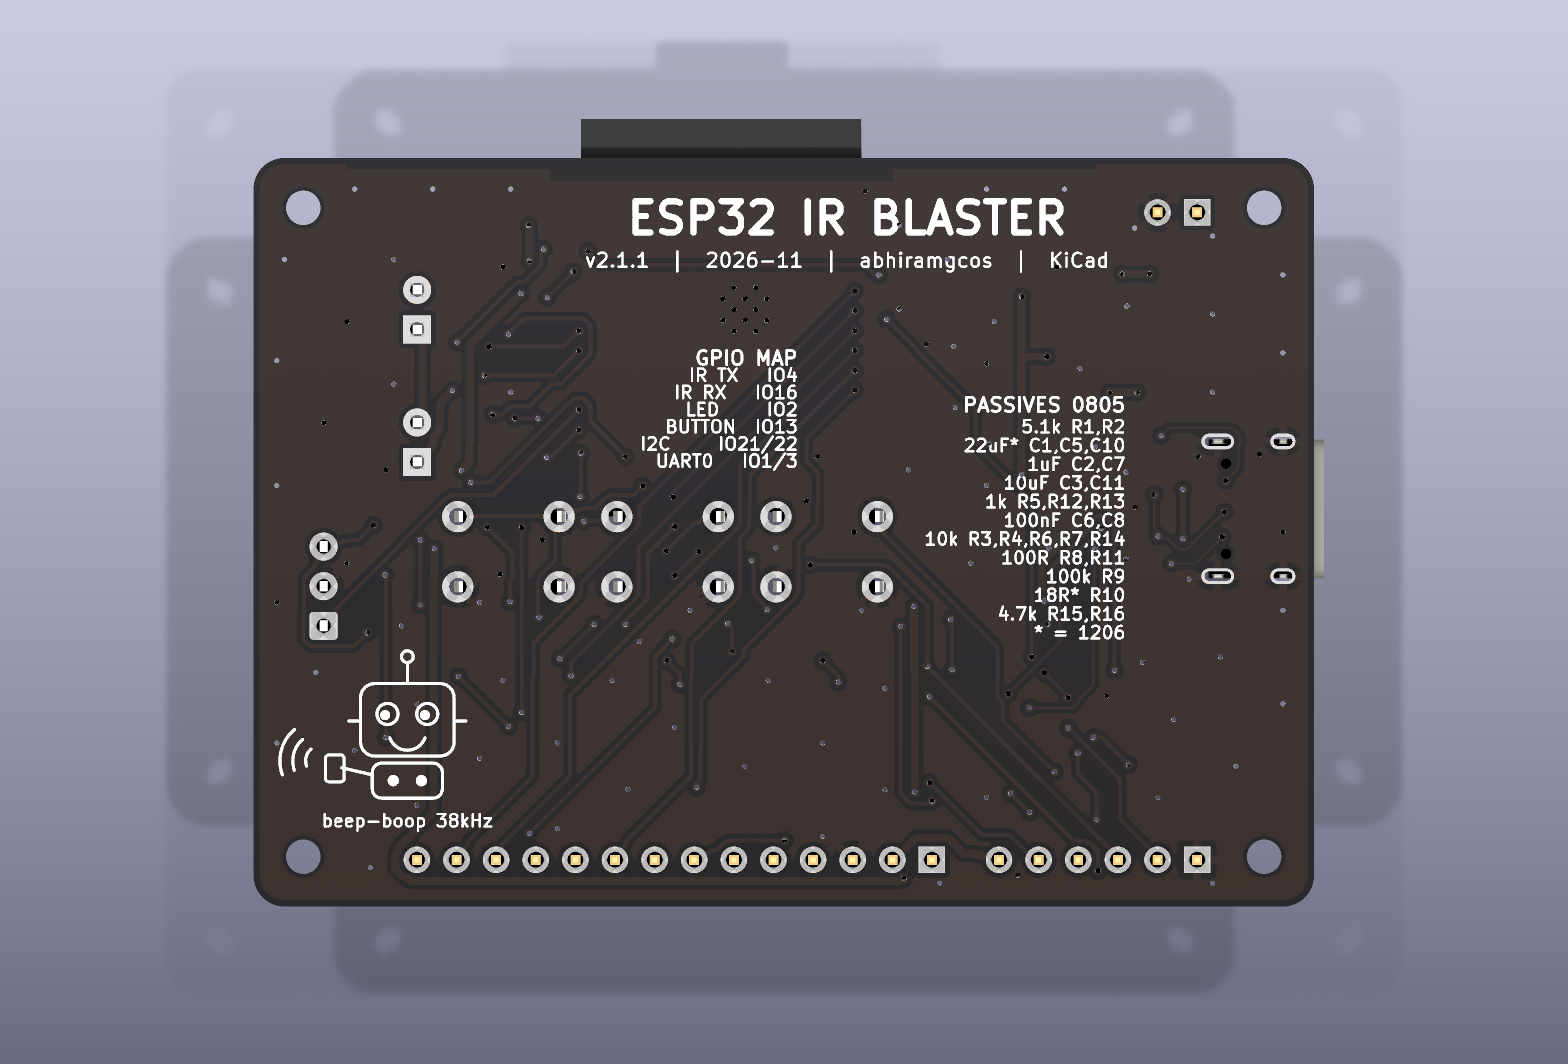
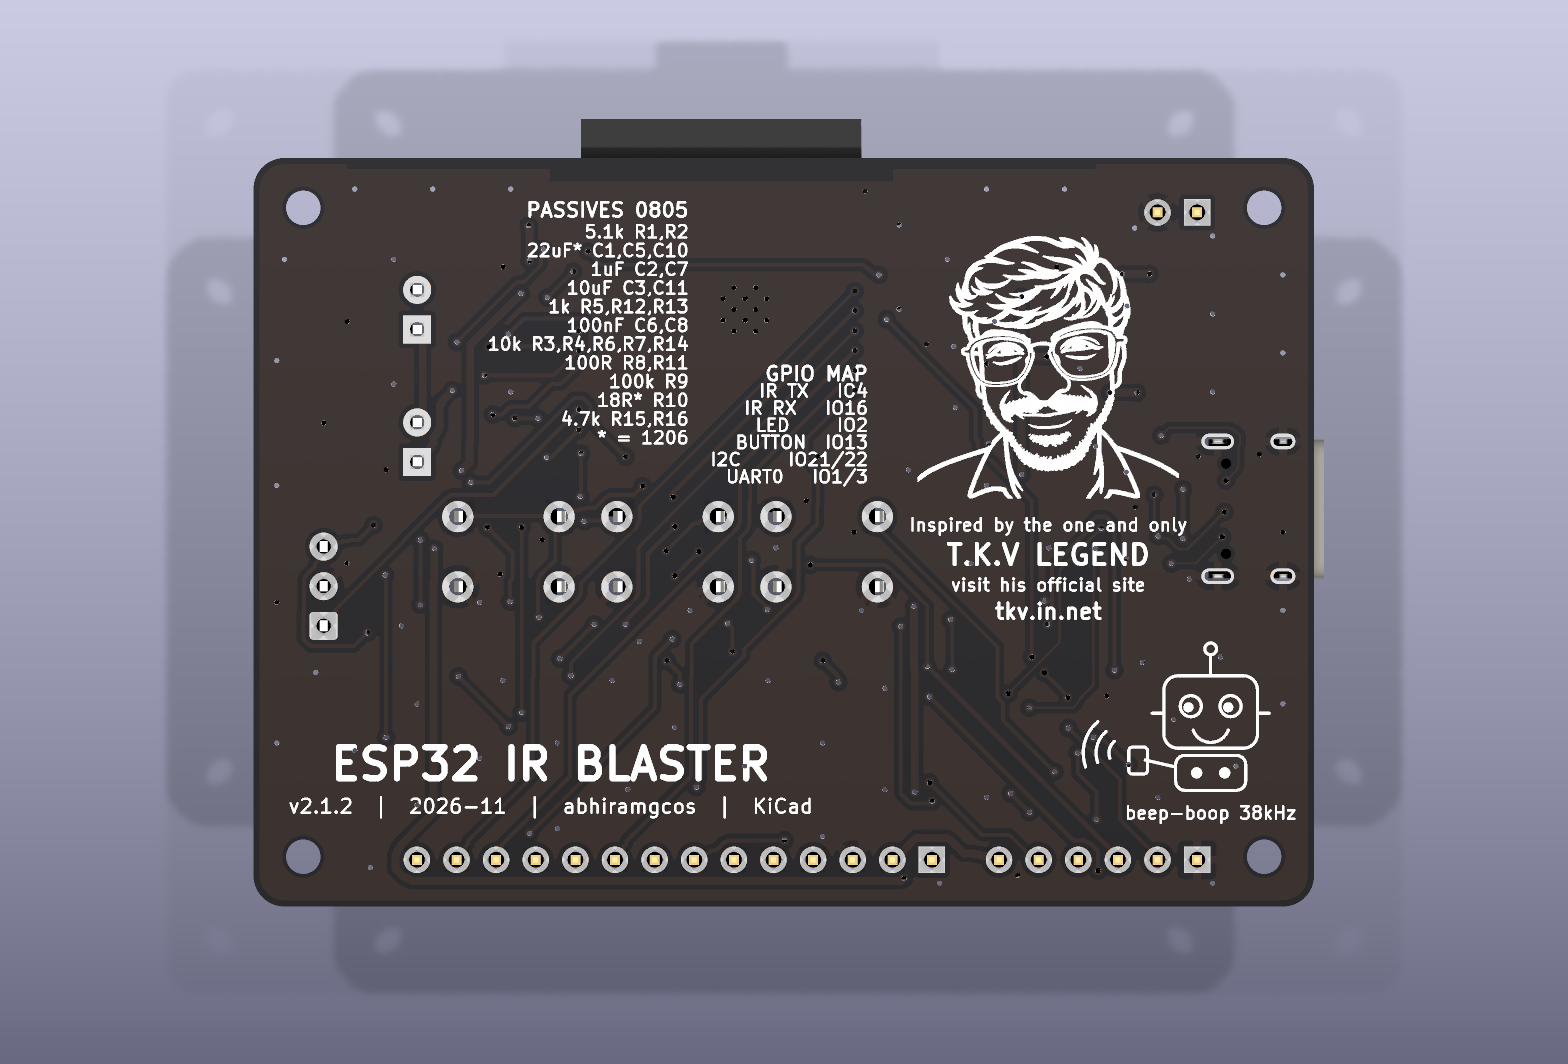
docs: v2.1.2 renders and changelog (back silkscreen tribute)

Changed region(s): [[0.3125, 0.1861, 0.75, 0.6203], [0.1875, 0.6203, 0.5312, 0.7754], [0.6875, 0.6203, 0.8125, 0.7754]]

diff --git a/README.md b/README.md
@@ -11,7 +11,7 @@ box, fan, LED strip) and plays them back from your phone, a script or Home Assis
 
 ![ESP32 IR Blaster, 3D render](docs/img/v2.1_3d_top_iso.png)
 
-<sub>KiCad 3D render of the v2.1.1 board, not a photo. The USB-C model is a stand-in for the HRO part.</sub>
+<sub>KiCad 3D render of the v2.1.2 board, not a photo. The USB-C model is a stand-in for the HRO part.</sub>
 
 ## Features
 
@@ -44,7 +44,10 @@ box, fan, LED strip) and plays them back from your phone, a script or Home Assis
 
 | Top | Bottom |
 |---|---|
-| ![top](docs/img/v2.1_3d_top.png) | ![bottom](docs/img/v2.1_3d_bottom_iso.png) |
+| ![top](docs/img/v2.1_3d_top.png) | ![bottom](docs/img/v2.1_3d_bottom.png) |
+
+<sub>The back carries a silkscreen portrait tribute: *"Inspired by the one and only T.K.V legend"*. Visit his
+site, [tkv.in.net](https://tkv.in.net).</sub>
 
 ![IR edge](docs/img/v2.1_3d_ir_edge.png)
 
@@ -188,7 +191,7 @@ The remaining DRC **warnings** are expected:
 
 ## Status
 
-* v2.1.1 hardware and firmware are complete and verified by the checks above. **No board has been
+* v2.1.2 hardware and v2.1.1 firmware are complete and verified by the checks above. **No board has been
   manufactured yet**, so treat the first build as a prototype run.
 * Every SMD part has a verified, in-stock LCSC number, so JLCPCB's BOM tool matches the whole BOM
   automatically. The through-hole parts (IR LEDs, TSOP, buttons, headers) are left for hand soldering.

diff --git a/CHANGELOG.md b/CHANGELOG.md
@@ -2,6 +2,16 @@
 
 Hardware and firmware share one version number. Hardware revisions are printed on the PCB silkscreen.
 
+## [2.1.2] - 2026-11-20
+
+Silkscreen only; copper, drills and BOM are unchanged from 2.1.1. Firmware stays 2.1.1.
+
+* Back silkscreen: a line-art portrait tribute traced into filled silkscreen polygons
+  (`gen/art/trace_portrait.py`; strokes kept ≥ 0.15 mm), with the credit underneath: *"Inspired by the one
+  and only T.K.V legend — visit his official site tkv.in.net"*.
+* The other back-side blocks (title, GPIO map, passives table, robot) are re-placed around it, clear of every
+  through-hole pad.
+
 ## [2.1.1] - 2026-11-20
 
 ### Hardware
@@ -80,6 +90,7 @@ JLCPCB BOM/CPL files.
 Original board. Only fab files exist; they are kept in `v1/fab/`. The review is in
 [docs/v1-review.md](docs/v1-review.md).
 
+[2.1.2]: https://github.com/abhiramgcos/Esp_ir_board/releases/tag/v2.1.2
 [2.1.1]: https://github.com/abhiramgcos/Esp_ir_board/releases/tag/v2.1.1
 [2.1.0]: https://github.com/abhiramgcos/Esp_ir_board/releases/tag/v2.1.0
 [2.0.0]: https://github.com/abhiramgcos/Esp_ir_board/releases/tag/v2.0.0

diff --git a/docs/COMPONENTS.md b/docs/COMPONENTS.md
@@ -1,6 +1,6 @@
 # Components: what each part does, what to buy, and safe alternatives
 
-**Board:** ESP32 IR Blaster/Receiver v2.1.1, 68 × 48 mm, 2 layers, 51 parts.
+**Board:** ESP32 IR Blaster/Receiver v2.1.2, 68 × 48 mm, 2 layers, 51 parts.
 
 The machine-readable BOM is in `fab/BOM_full.csv`; the JLCPCB-format BOM and pick-and-place files are in
 `fab/`. Values come from [`gen/circuit.py`](../gen/circuit.py), the single source of truth for the design.
